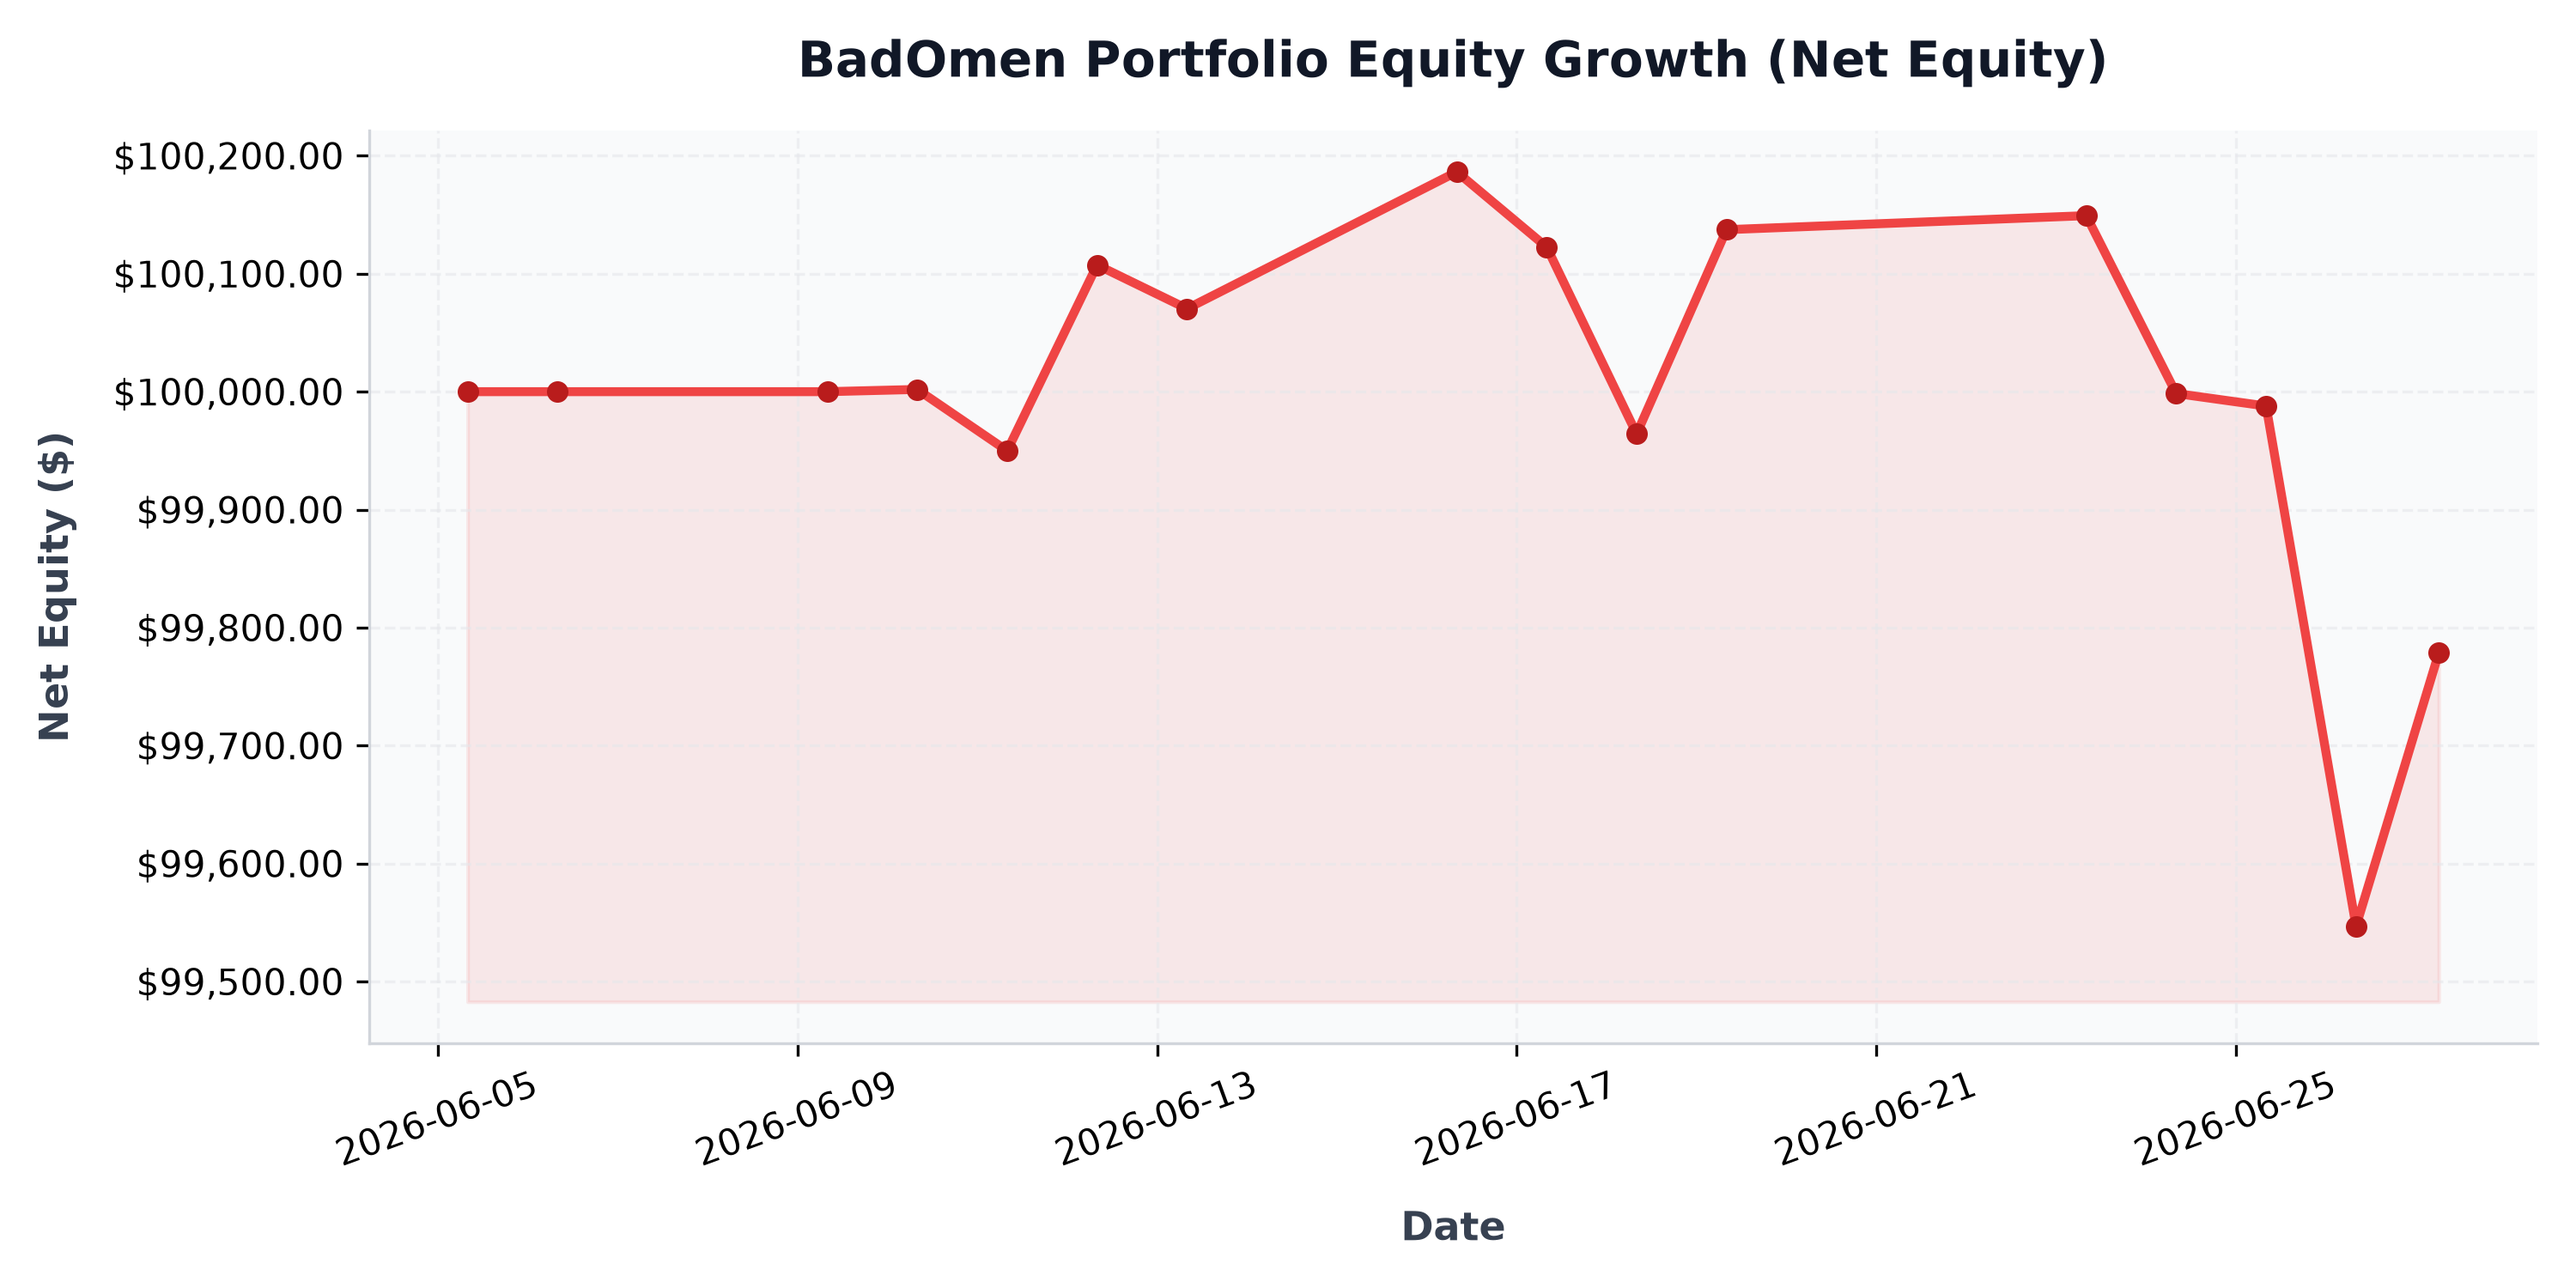
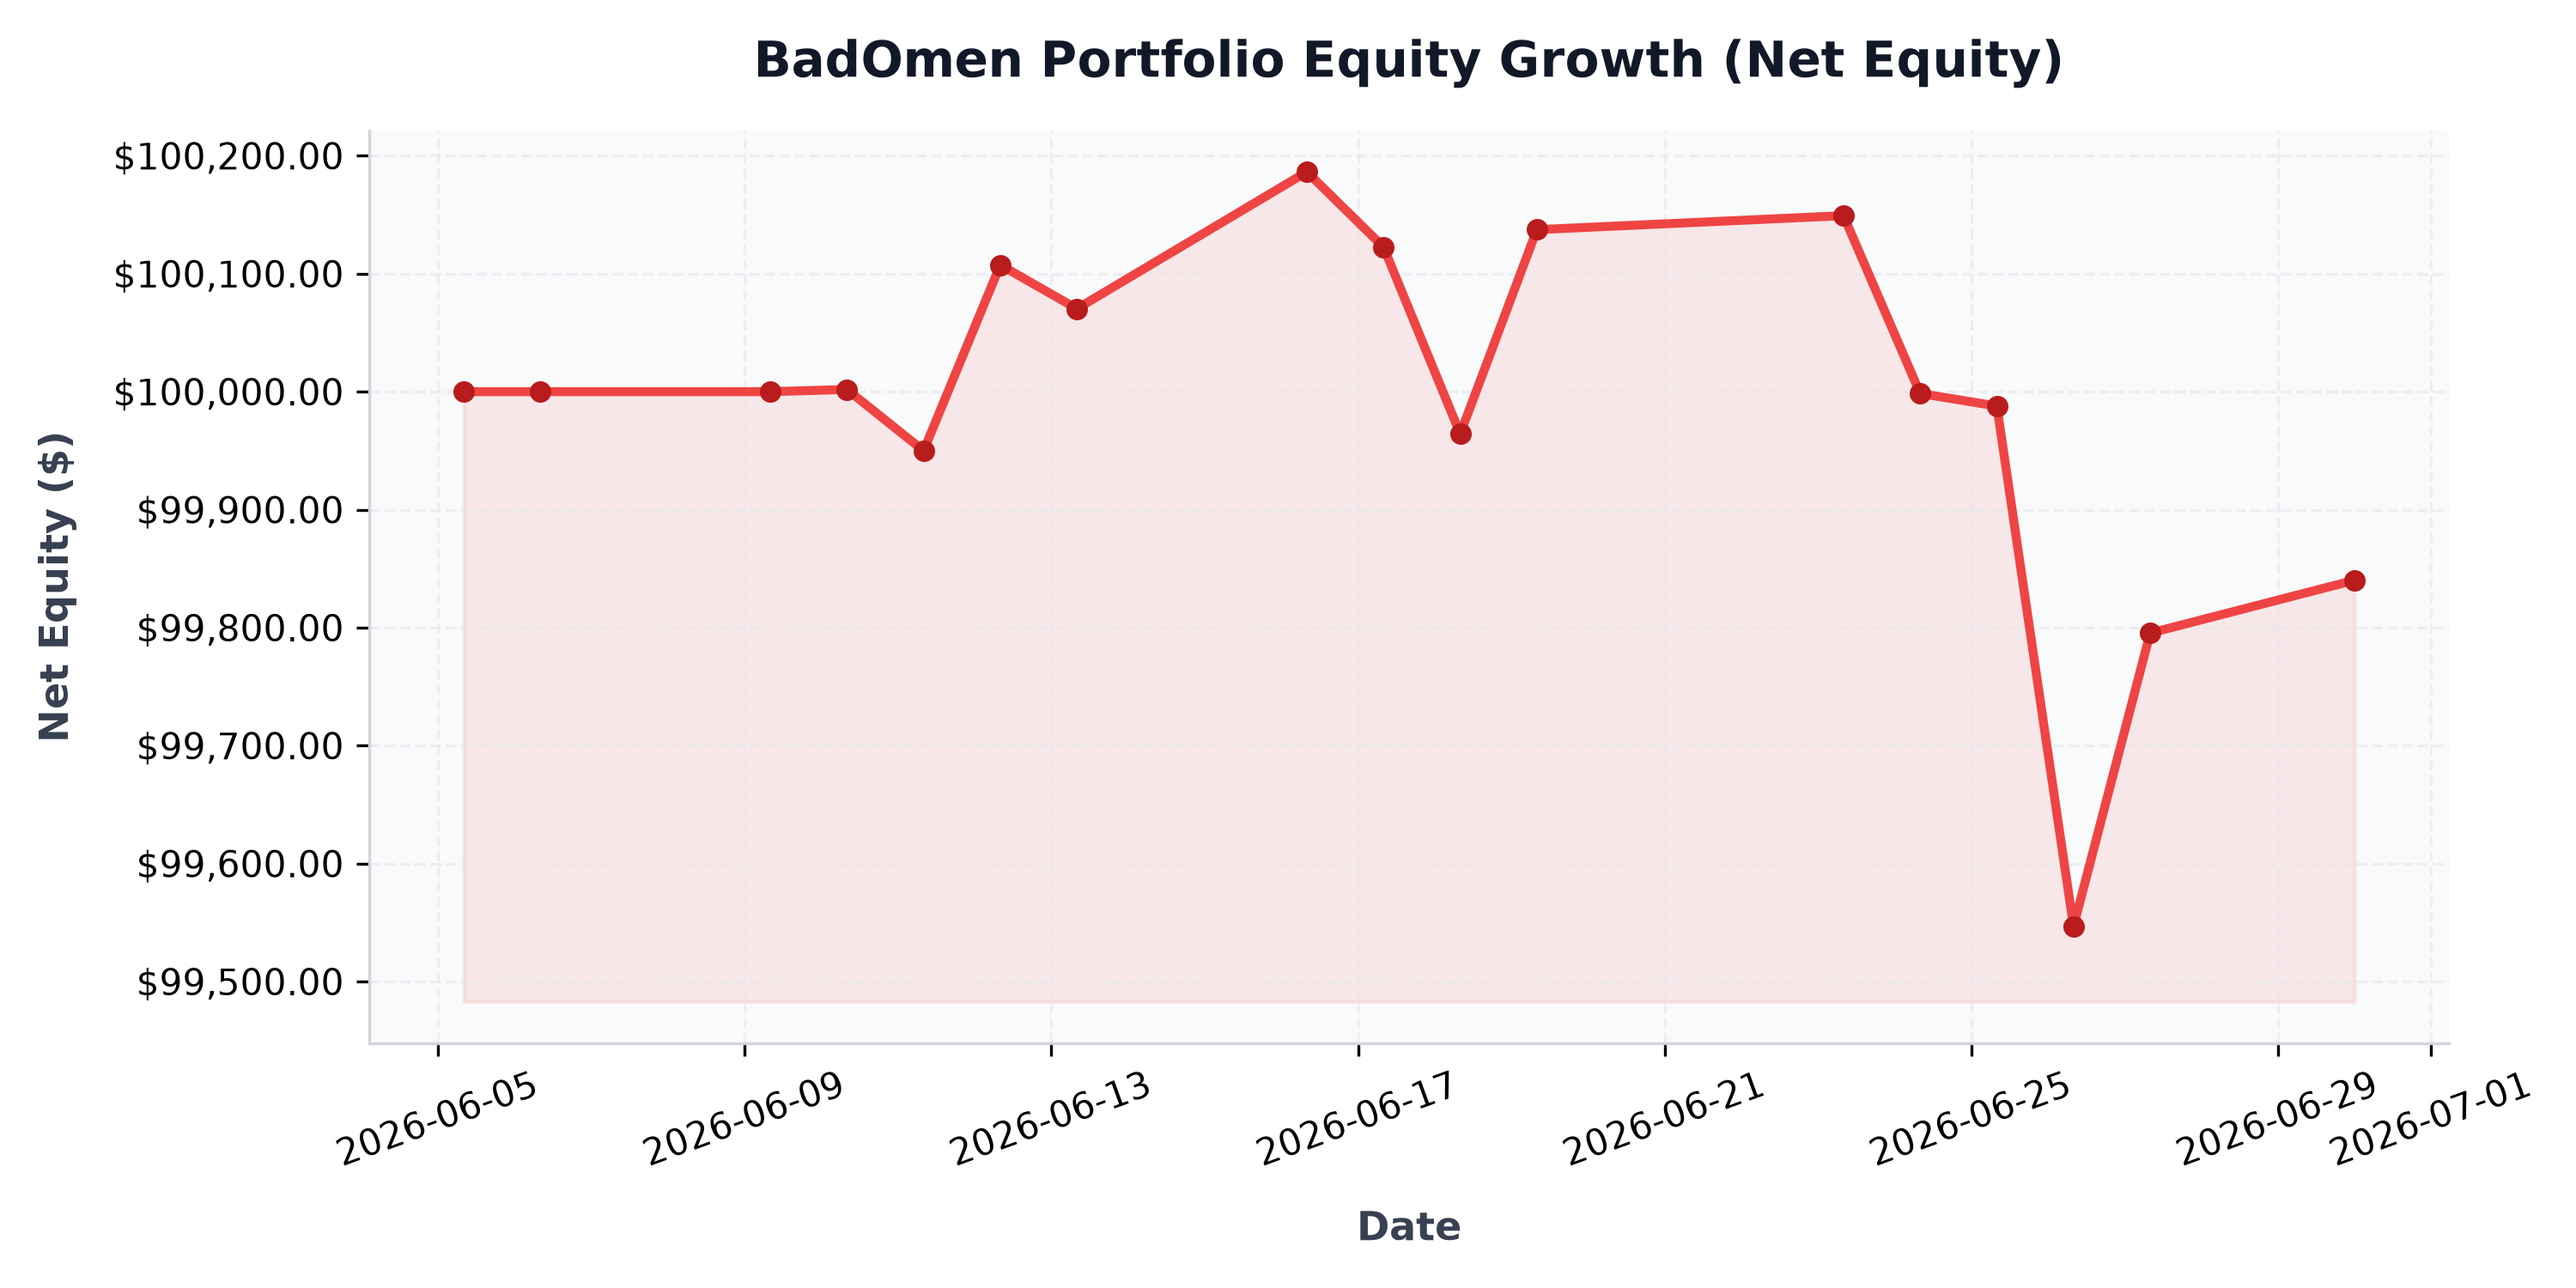
auto: daily portfolio status update - 2026-06-30 00:00:14

diff --git a/src/content/posts/portfolio-performance.md b/src/content/posts/portfolio-performance.md
@@ -1,6 +1,6 @@
 ---
 title: "BadOmen Algorithmic Portfolio Performance & PnL Report"
-pubDatetime: 2026-06-27T06:05:12.953909+08:00
+pubDatetime: 2026-06-30T00:00:14.885992+08:00
 description: "Live performance metrics, active holdings, and historic equity curve for the BadOmen automated paper trading portfolio."
 featured: true
 draft: false
@@ -16,11 +16,11 @@ Welcome to the live performance dashboard for **BadOmen**, our automated algorit
 ## 📊 Portfolio Summary
 | Performance Metric | Value | description |
 | :--- | :--- | :--- |
-| **Net Portfolio Equity** | **$99,778.55** | Total current liquidation value of cash and stock holdings |
-| **Total Unrealized P&L** | 🔴 **$-210.40** (-0.21%) | Total return of current open holdings |
-| **Cash Balance** | $85,405.67 | Idle reserve currency available for limit orders |
-| **Buying Power** | $377,051.13 | Margin-backed buying power for entry allocations |
-| **Report Updated** | `2026-06-27 06:05:12 (SGT)` | Timestamp of daily execution and sync run |
+| **Net Portfolio Equity** | **$99,840.18** | Total current liquidation value of cash and stock holdings |
+| **Total Unrealized P&L** | 🔴 **$-150.43** (-0.15%) | Total return of current open holdings |
+| **Cash Balance** | $82,548.64 | Idle reserve currency available for limit orders |
+| **Buying Power** | $369,897.90 | Margin-backed buying power for entry allocations |
+| **Report Updated** | `2026-06-30 00:00:14 (SGT)` | Timestamp of daily execution and sync run |
 
 ## 📈 Net Equity Growth Curve
 The chart below illustrates the historical performance of the account starting from our baseline capital funding of $100,000.00.
@@ -35,19 +35,22 @@ The chart below illustrates the exposure of our currently held active positions 
 ## 💼 Current Position Holdings
 | Ticker | Industry | Shares Owned | Average Entry Cost | Current Price | Unrealized P&L | Return (%) |
 | :--- | :--- | :--- | :--- | :--- | :--- | :--- |
-| **AN** | Auto & Truck Dealerships | 5 | $188.51 | $191.64 | 🟢 +$15.66 | +1.66% |
-| **AVGO** | Semiconductors | 1 | $385.71 | $364.84 | 🔴 $-20.87 | -5.41% |
-| **GDDY** | Software - Infrastructure | 12 | $76.21 | $84.55 | 🟢 +$100.08 | +10.94% |
-| **GGAL** | Banks - Regional | 17 | $56.04 | $49.97 | 🔴 $-103.18 | -10.83% |
-| **GPI** | Auto & Truck Dealerships | 3 | $316.15 | $301.74 | 🔴 $-43.23 | -4.56% |
-| **ITRI** | Scientific & Technical Instruments | 12 | $81.80 | $83.87 | 🟢 +$24.84 | +2.53% |
-| **META** | Internet Content & Information | 1 | $568.17 | $550.51 | 🔴 $-17.66 | -3.11% |
-| **NU** | Banks - Regional | 85 | $11.60 | $13.14 | 🟢 +$131.02 | +13.29% |
-| **ORCL** | Software - Infrastructure | 5 | $181.95 | $148.75 | 🔴 $-166.00 | -18.25% |
-| **PATH** | Software - Infrastructure | 187 | $10.42 | $10.50 | 🟢 +$14.90 | +0.77% |
-| **QCOM** | Semiconductors | 10 | $201.80 | $189.00 | 🔴 $-128.00 | -6.34% |
-| **SMCI** | Computer Hardware | 33 | $29.25 | $30.60 | 🟢 +$44.55 | +4.61% |
-| **WEN** | Restaurants | 257 | $8.02 | $7.78 | 🔴 $-62.51 | -3.03% |
+| **AN** | Auto & Truck Dealerships | 5 | $188.51 | $188.88 | 🟢 +$1.86 | +0.20% |
+| **AVGO** | Semiconductors | 1 | $385.71 | $371.40 | 🔴 $-14.31 | -3.71% |
+| **CELH** | Beverages - Non-Alcoholic | 33 | $29.71 | $29.55 | 🔴 $-5.37 | -0.55% |
+| **GDDY** | Software - Infrastructure | 12 | $76.21 | $85.08 | 🟢 +$106.50 | +11.64% |
+| **GGAL** | Banks - Regional | 17 | $56.04 | $50.98 | 🔴 $-86.01 | -9.03% |
+| **GPI** | Auto & Truck Dealerships | 3 | $316.15 | $294.37 | 🔴 $-65.34 | -6.89% |
+| **ITRI** | Scientific & Technical Instruments | 12 | $81.80 | $83.05 | 🟢 +$15.00 | +1.53% |
+| **META** | Internet Content & Information | 1 | $568.17 | $564.98 | 🔴 $-3.19 | -0.56% |
+| **NU** | Banks - Regional | 85 | $11.60 | $13.04 | 🟢 +$122.52 | +12.43% |
+| **ON** | Semiconductors | 10 | $90.45 | $88.89 | 🔴 $-15.65 | -1.73% |
+| **ORCL** | Software - Infrastructure | 5 | $181.95 | $148.94 | 🔴 $-165.05 | -18.14% |
+| **PATH** | Software - Infrastructure | 187 | $10.42 | $10.72 | 🟢 +$56.97 | +2.92% |
+| **QCOM** | Semiconductors | 10 | $201.80 | $191.71 | 🔴 $-100.90 | -5.00% |
+| **SMCI** | Computer Hardware | 33 | $29.25 | $30.25 | 🟢 +$32.84 | +3.40% |
+| **WEN** | Restaurants | 257 | $8.02 | $7.97 | 🔴 $-12.52 | -0.61% |
+| **ZG** | Internet Content & Information | 31 | $31.35 | $30.78 | 🔴 $-17.77 | -1.83% |
 
 ## 🔴 Recent Realized Trades
 | Ticker | Shares Sold | Entry Price | Exit Price | Strategy Trigger | Realized Return | Exit Date |
